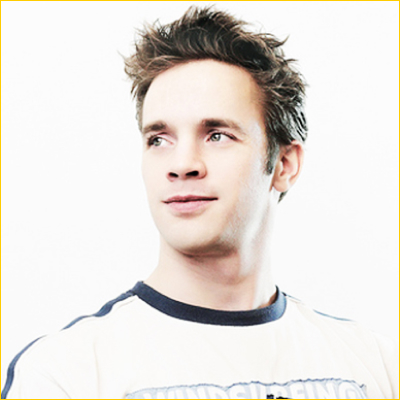
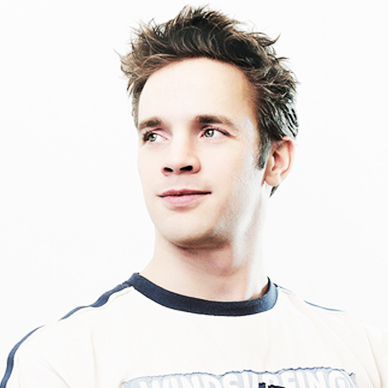
layout done

diff --git a/Horiushko/homework/lesson 18/styles/index.css b/Horiushko/homework/lesson 18/styles/index.css
@@ -1,4 +1,4 @@
-.head-items, .container {
+.info-items, .head-items, .container {
   display: -webkit-box;
   display: -ms-flexbox;
   display: flex;
@@ -8,13 +8,13 @@
           flex-direction: column;
 }
 
-.head-items .separator {
+.dotted-line, .main-items, .head-items .separator {
   display: -webkit-box;
   display: -ms-flexbox;
   display: flex;
 }
 
-h5, h1 {
+.btn, h5, h1 {
   text-transform: uppercase;
 }
 
@@ -31,6 +31,17 @@ h5 {
   font-weight: 500;
 }
 
+h2 {
+  font-size: 36px;
+  font-weight: 900;
+  text-transform: capitalize;
+}
+
+.info,
+.photo {
+  margin: 70px;
+}
+
 main {
   padding: 122px 135px;
   background: #fff;
@@ -41,6 +52,7 @@ main {
   -webkit-box-align: center;
       -ms-flex-align: center;
           align-items: center;
+  gap: 40px;
 }
 
 .head-items {
@@ -50,7 +62,7 @@ main {
           justify-content: center;
 }
 .head-items h1 {
-  margin: 15px auto 50px;
+  margin: 15px auto 40px;
 }
 .head-items h5 {
   margin: 0px auto 0px;
@@ -70,4 +82,116 @@ h1 {
 h5 {
   font-family: "Raleway";
   color: #898F8F;
+}
+
+h2 {
+  font-family: "Roboto";
+  color: #666;
+  margin-top: 0;
+}
+
+.main-items {
+  -webkit-box-pack: center;
+      -ms-flex-pack: center;
+          justify-content: center;
+}
+
+.info,
+.photo {
+  -webkit-box-flex: 1;
+      -ms-flex: 1 1 0px;
+          flex: 1 1 0;
+}
+
+.photo {
+  max-height: 388px;
+  max-width: 388px;
+  --s: 100px; /* the size on the corner */
+  --t: 2px; /* the thickness of the border */
+  --g: 20px; /* the gap between the border and image */
+  outline: var(--t) solid #FC0;
+  padding: calc(var(--g) + var(--t));
+  outline-offset: calc(-1 * var(--t));
+  -webkit-mask: conic-gradient(at var(--s) var(--s), rgba(0, 0, 0, 0) 75%, #000 0) 0 0/calc(100% - var(--s)) calc(100% - var(--s)), -webkit-gradient(linear, left top, left bottom, color-stop(0, #000)) content-box;
+  -webkit-mask: conic-gradient(at var(--s) var(--s), rgba(0, 0, 0, 0) 75%, #000 0) 0 0/calc(100% - var(--s)) calc(100% - var(--s)), linear-gradient(#000 0 0) content-box;
+  -webkit-transition: 0.4s;
+  transition: 0.4s;
+}
+.photo:hover {
+  outline-offset: calc(var(--g) / -1);
+}
+
+.divider {
+  border-left: 1px solid #FC0;
+}
+
+.info-items {
+  -webkit-box-align: center;
+      -ms-flex-align: center;
+          align-items: center;
+}
+.info-items hr {
+  width: 30%;
+  height: 1px;
+  background: #FC0;
+  border: none;
+}
+.info-items p:first-of-type {
+  font-family: "Raleway";
+  color: #666;
+  font-size: 24px;
+  font-weight: 400;
+  line-height: 36px;
+  text-transform: capitalize;
+}
+.info-items .svg-social {
+  margin-bottom: 50px;
+}
+.info-items p:last-of-type {
+  color: #333;
+  text-align: center;
+  font-family: "Raleway";
+  font-size: 14px;
+  font-weight: 500;
+  margin: 0;
+  margin-bottom: 20px;
+}
+
+.dotted-line {
+  gap: 5px;
+  margin-bottom: 25px;
+}
+.dotted-line hr:nth-of-type(1) {
+  width: 10px;
+  height: 4px;
+  background: #FC0;
+  border: none;
+}
+.dotted-line hr:nth-of-type(2) {
+  width: 20px;
+  height: 4px;
+  background: #FC0;
+  border: none;
+}
+.dotted-line hr:nth-of-type(3) {
+  width: 10px;
+  height: 4px;
+  background: #FC0;
+  border: none;
+}
+
+.btn {
+  -webkit-appearance: none;
+     -moz-appearance: none;
+          appearance: none;
+  cursor: pointer;
+  border: 1px solid #fc0;
+  background: #fff;
+  padding: 5px 10px;
+  font-family: "Open Sans";
+  color: #666;
+  text-align: center;
+  font-size: 14px;
+  font-weight: 700;
+  line-height: 14px;
 }

diff --git a/Horiushko/homework/lesson 18/styles/index.scss b/Horiushko/homework/lesson 18/styles/index.scss
@@ -13,6 +13,7 @@ main {
   padding: 0 75px;
   @extend %flexible-column;
   align-items: center;
+  gap: 40px;
 }
 
 .head-items {
@@ -21,7 +22,7 @@ main {
   justify-content: center;
 
   h1 {
-    @include margin-center($margin-top: 15px, $margin-bottom: 50px);
+    @include margin-center($margin-top: 15px, $margin-bottom: 40px);
   }
 
   h5 {
@@ -33,7 +34,7 @@ main {
   }
 
   hr {
-    @include gold-line;
+    @include gold-line($width: 40%);
   }
 }
 
@@ -47,4 +48,110 @@ h5 {
   @extend %sub, %up-text;
   font-family: $font-raleway;
   color: $sub-color;
+}
+
+h2 {
+  @extend %h2;
+  font-family: $font-roboto;
+  color: $primary-color;
+  margin-top: 0;
+}
+
+.main-items {
+  @extend %flexible-row;
+  justify-content: center;
+}
+
+.info,
+.photo {
+  @extend %m-70;
+  flex: 1 1 0;
+}
+
+.photo {
+  max-height: 388px;
+  max-width: 388px;
+
+  --s: 100px; /* the size on the corner */
+  --t: 2px; /* the thickness of the border */
+  --g: 20px; /* the gap between the border and image */
+  outline: var(--t) solid $headline-color;
+  padding: calc(var(--g) + var(--t));
+  outline-offset: calc(-1 * var(--t));
+  -webkit-mask: conic-gradient(at var(--s) var(--s), #0000 75%, #000 0) 0 0 /
+      calc(100% - var(--s)) calc(100% - var(--s)),
+    linear-gradient(#000 0 0) content-box;
+  transition: 0.4s;
+
+  &:hover {
+    outline-offset: calc(var(--g) / -1);
+  }
+}
+.divider {
+  border-left: 1px solid $headline-color;
+}
+
+.info-items {
+  @extend %flexible-column;
+  align-items: center;
+
+  hr {
+    @include gold-line($width: 30%);
+  }
+
+  p:first-of-type {
+    font-family: $font-raleway;
+    color: $primary-color;
+    font-size: 24px;
+    font-weight: 400;
+    line-height: 36px;
+    text-transform: capitalize;
+  }
+
+  .svg-social {
+    margin-bottom: 50px;
+  }
+
+  p:last-of-type {
+    color: $third-color;
+    text-align: center;
+    font-family: $font-raleway;
+    font-size: 14px;
+    font-weight: 500;
+    margin: 0;
+    margin-bottom: 20px;
+  }
+}
+
+.dotted-line {
+  @extend %flexible-row;
+  gap: 5px;
+  margin-bottom: 25px;
+
+  hr:nth-of-type(1) {
+    @include gold-line($width: 10px, $height: 4px);
+  }
+
+  hr:nth-of-type(2) {
+    @include gold-line($width: 20px, $height: 4px);
+  }
+
+  hr:nth-of-type(3) {
+    @include gold-line($width: 10px, $height: 4px);
+  }
+}
+
+.btn {
+  appearance: none;
+  cursor: pointer;
+  border: 1px solid #fc0;
+  background: #fff;
+  padding: 5px 10px;
+  @extend %up-text;
+  font-family: $font-opensans;
+  color: $primary-color;
+  text-align: center;
+  font-size: 14px;
+  font-weight: 700;
+  line-height: 14px;
 }

diff --git a/Horiushko/homework/lesson 18/index.html b/Horiushko/homework/lesson 18/index.html
@@ -35,6 +35,7 @@
             </div>
             <div class="main-items">
                 <div class="photo"><img src="images/photo.jpg" alt="man" /></div>
+                <div class="divider"></div>
                 <div class="info">
                     <div class="info-items">
                         <h2>Sahariar Kabir</h2>
@@ -82,7 +83,7 @@
                             <hr />
                             <hr />
                         </div>
-                        <button>view profile</button>
+                        <button class="btn">view profile</button>
                     </div>
                 </div>
             </div>

diff --git a/Horiushko/homework/lesson 18/styles/modules/_mixins.scss b/Horiushko/homework/lesson 18/styles/modules/_mixins.scss
@@ -1,6 +1,6 @@
-@mixin gold-line {
-  width: 40%;
-  height: 1px;
+@mixin gold-line($width, $height: 1px) {
+  width: $width;
+  height: $height;
   background: $headline-color;
   border: none;
 }

diff --git a/Horiushko/homework/lesson 18/styles/modules/_extends.scss b/Horiushko/homework/lesson 18/styles/modules/_extends.scss
@@ -23,3 +23,13 @@
   line-height: 24px;
   font-weight: 500;
 }
+
+%h2 {
+  font-size: 36px;
+  font-weight: 900;
+  text-transform: capitalize;
+}
+
+%m-70 {
+  margin: 70px;
+}
